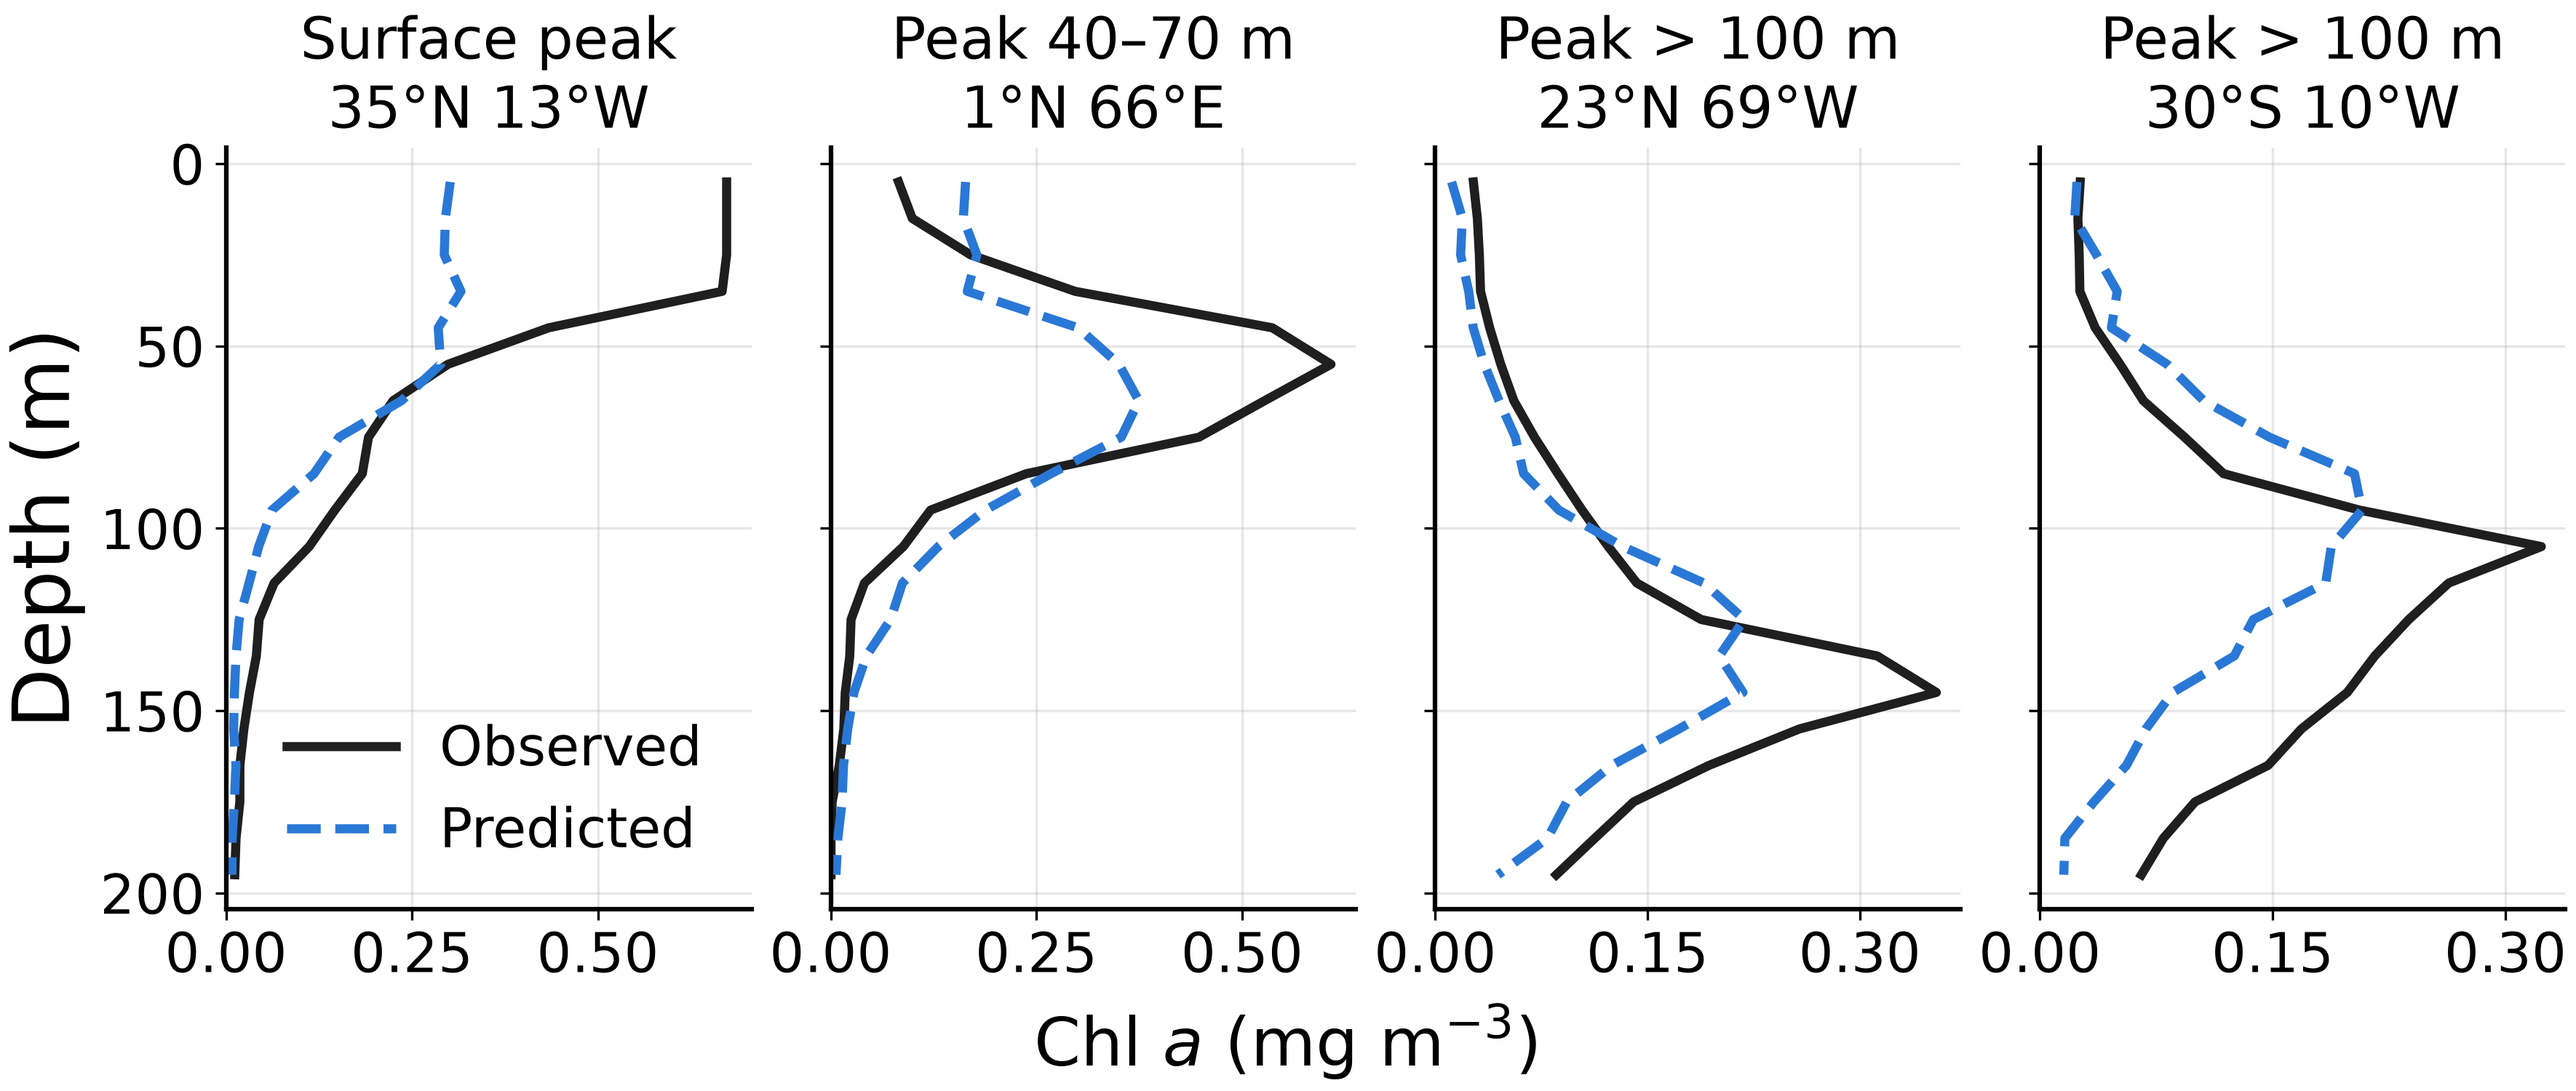
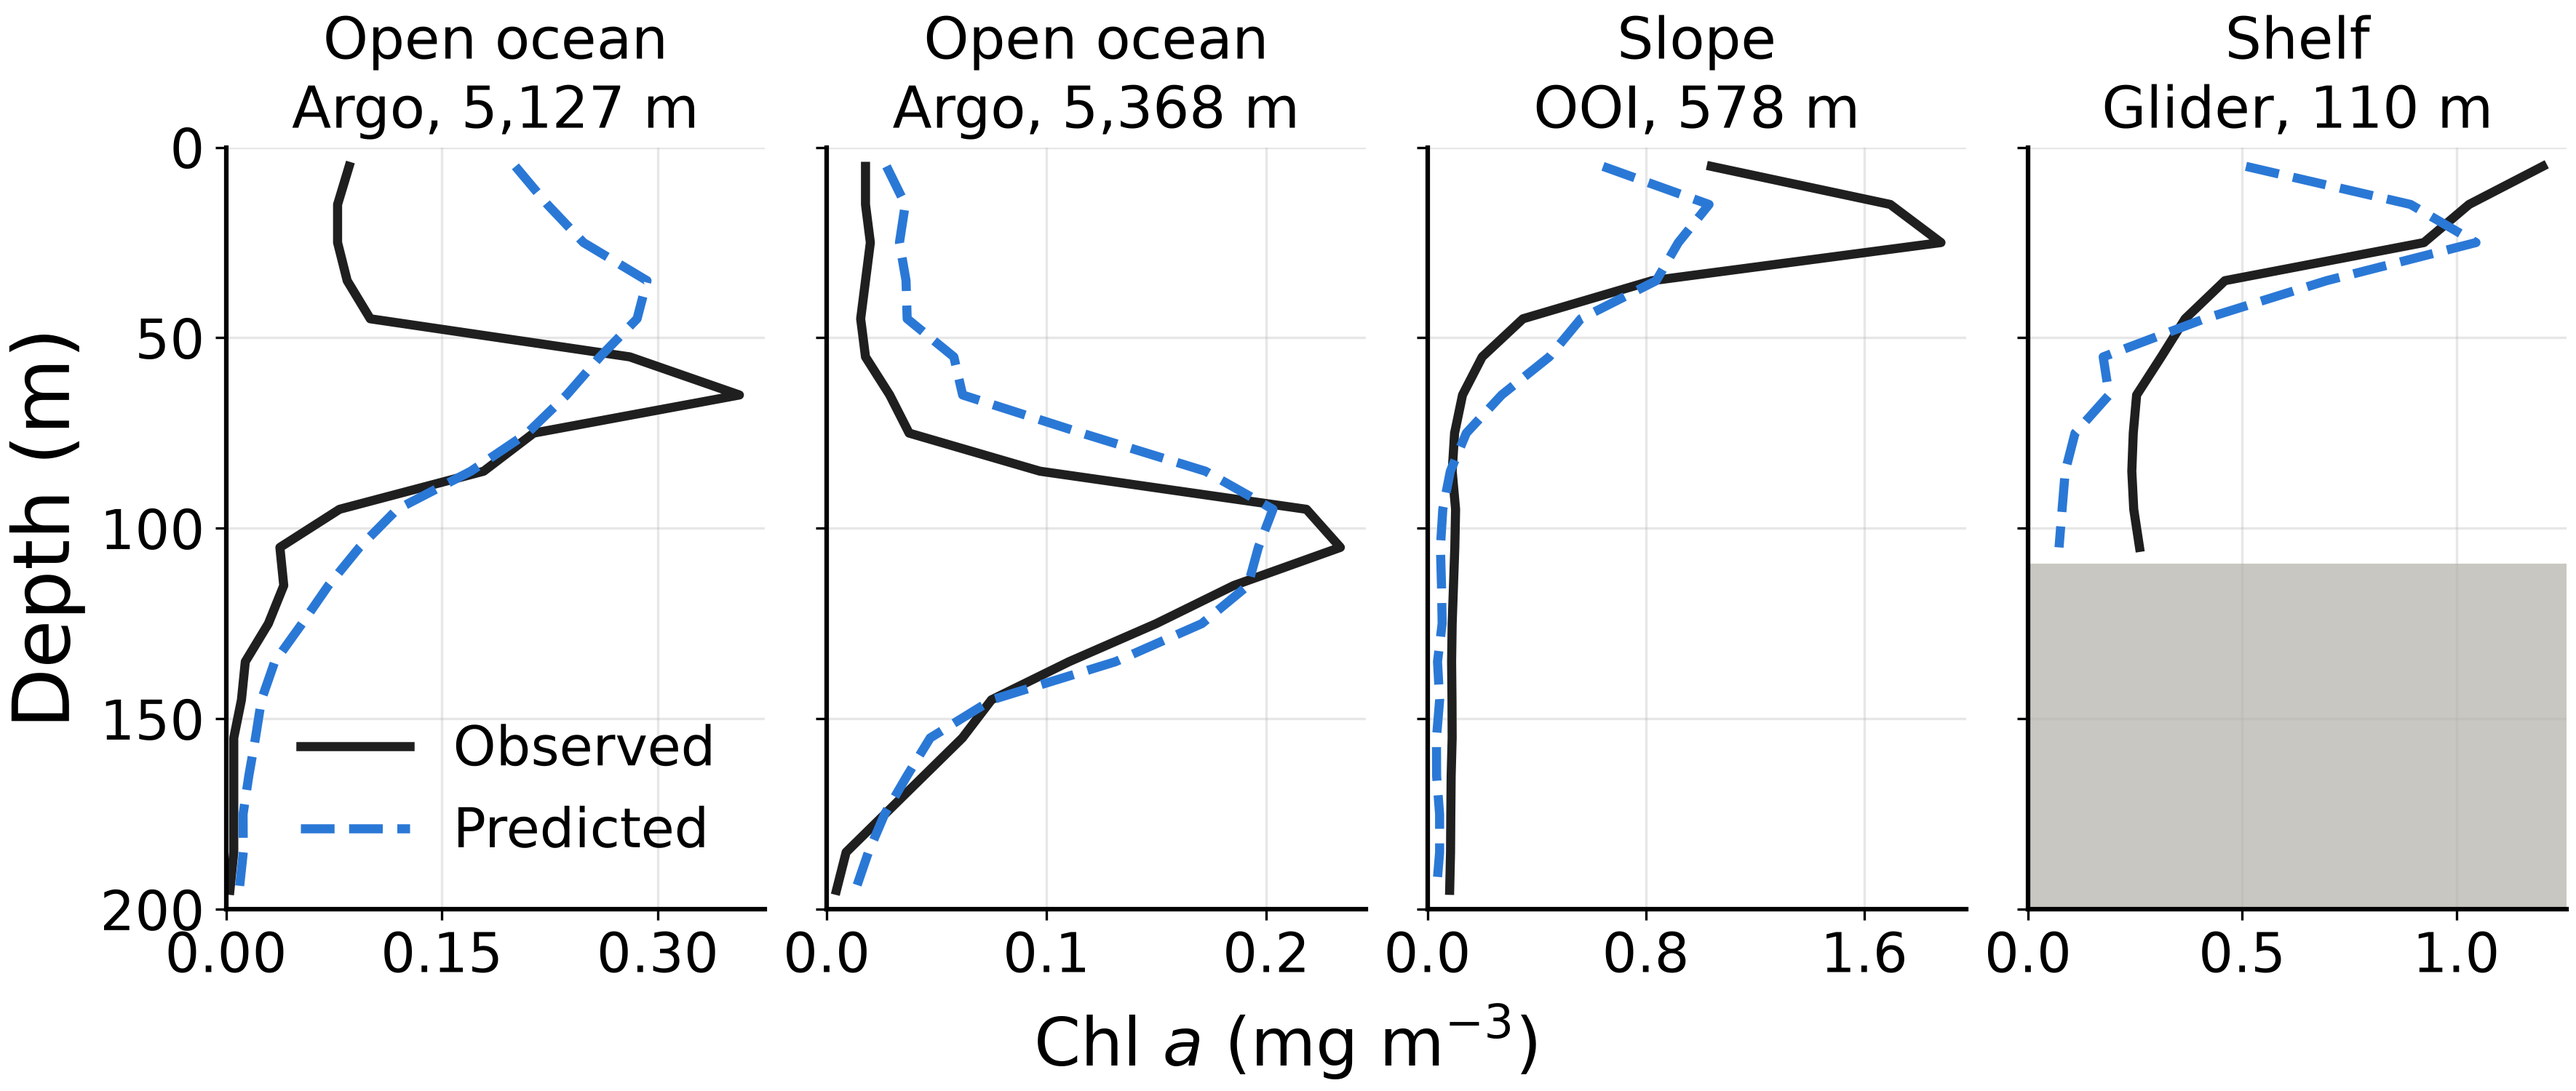
Figure 1: typical profiles in open ocean, slope and shelf (#22)
Eli, 2026-11-24: four panels by water depth instead of four open-ocean
Argo profiles: open ocean, open ocean with a deep maximum, slope, shelf.
v2 model (runs/platform-glider, argo_bias), held-out repeat 0. Each panel
is drawn at random from the middle half (25th-75th percentile of
per-profile RMSE) of its class, so the panels are typical; the picks land
at the 59th-66th percentiles. Caption updated; poster still one page.

diff --git a/poster/scripts/fig_example_profiles.py b/poster/scripts/fig_example_profiles.py
@@ -1,14 +1,25 @@
 """Introduction figure: observed vs predicted CHLA profiles (issue #13).
 
-Shows the known result the poster builds on: Rrs predicts the open-ocean
-profile, including a deep chlorophyll maximum. Predictions are out-of-fold
-from the leakage-free evaluation (#20): Argo+OOI model, space-time block
-split (1° cell x 30 d), repeat 0, so each profile was predicted by a model
-that saw nothing from its cell within that 30-day block.
+Eli, 2026-11-24 (poster v2, #22): four panels by water depth, to show what
+profiles look like and that the model captures their shape: open ocean, open
+ocean with a deep maximum (> 100 m), slope (200-1000 m) and shelf (< 200 m).
+v1 showed four open-ocean Argo profiles.
 
-Profiles are drawn at random (fixed seed) within each panel's category, not
-picked for a good fit. Categories by observed peak depth and water depth
-(ETOPO 2022, poster/analysis/bathymetry). Inputs live in ~/shared-public.
+Predictions are out-of-fold from the v2 model used in block 2 (Argo + OOI +
+glider, every row predicted as Argo plus a per-depth platform offset;
+run_platform.py design "argo_bias", runs/platform-glider), space-time block
+split (1° cell x 30 d), repeat 0: each profile was predicted by a model that
+saw nothing from its cell within that 30-day block.
+
+Selection (Eli: "middle half of class"): for each panel, the eligible
+profiles are ranked by their RMSE of log10 Chl a over the observed bins, and
+one is drawn at random (fixed seed) from the 25th-75th percentile. So the
+panels are typical of their class, neither the best fits nor the worst.
+Eligible: contiguous 10 m bins from the surface; open ocean all 20 bins
+(Argo); slope at least 10 bins and shelf at least 5 (shelf water is shallow),
+any platform. Water-depth class from ETOPO 2022 (poster/analysis/bathymetry);
+the grey band is the seafloor where it is above 200 m. The script prints each
+pick and its percentile. Inputs live in ~/shared-public.
 """
 
 from pathlib import Path
@@ -20,60 +31,70 @@ import pandas as pd
 from poster_style import COLUMN_WIDTH_IN, DPI, apply_style
 
 SHARED = Path.home() / "shared-public" / "chla-z"
-PREDS = SHARED / "split-design" / "runs" / "full" / "preds" / "both__spacetime__1deg_30d__r0.parquet"
-DEPTH = SHARED / "bathymetry" / "water_depth_2026_11_23.parquet"
+PREDS = SHARED / "split-design" / "runs" / "platform-glider" / "preds" / "both__argo_bias__1deg_30d__r0.parquet"
+DEPTH = SHARED / "bathymetry" / "water_depth_2026_11_24.parquet"
 OUT = Path(__file__).resolve().parents[1] / "figures" / "fig_example_profiles.png"
 SEED = 7
+LABEL = {"argo": "Argo", "ooi": "OOI", "glider": "Glider"}
 
-OBS, PRED = "#1f1f1f", "#2a78d6"
+OBS, PRED, SEAFLOOR = "#1f1f1f", "#2a78d6", "#c9c7c1"
 
 
 def load():
     p = pd.read_parquet(PREDS)
     p["top"] = p["bin"].str.split("_").str[1].astype(int)
     p["z"] = p["top"] + 5
-    wd = pd.read_parquet(DEPTH, columns=["profile_id", "depth_class", "lat", "lon"])
+    wd = pd.read_parquet(DEPTH, columns=["profile_id", "depth_class", "water_depth_m"])
     p = p.merge(wd, on="profile_id", how="left")
-    full = p.groupby("profile_id")["top"].nunique()
-    p = p[p["profile_id"].isin(full[full == 20].index)]
+    g = p.groupby("profile_id").agg(
+        first=("top", "min"), last=("top", "max"), n=("top", "nunique"),
+        rmse=("y", lambda s: np.sqrt(((p.loc[s.index, "yhat"] - s) ** 2).mean())))
+    g = g[(g["first"] == 0) & (g["n"] == g["last"] // 10 + 1)]
     peak = p.loc[p.groupby("profile_id")["y"].idxmax(), ["profile_id", "z"]].set_index("profile_id")["z"]
-    p["peak"] = p["profile_id"].map(peak)
-    return p
+    g["peak"] = peak
+    meta = p.drop_duplicates("profile_id").set_index("profile_id")[["platform", "depth_class", "water_depth_m"]]
+    return p, g.join(meta)
 
 
 def main():
     apply_style()
-    p = load()
-    a = p[(p["platform"] == "argo") & (p["depth_class"] == "open ocean")]
-    rng = np.random.default_rng(SEED)
-    cats = [
-        ("Surface peak", a[a["peak"] <= 15]),
-        ("Peak 40–70 m", a[a["peak"].between(40, 70)]),
-        ("Peak > 100 m", a[a["peak"] > 100]),
-        ("Peak > 100 m", a[a["peak"] > 100]),
+    p, g = load()
+    open_ = g[(g["depth_class"] == "open ocean") & (g["platform"] == "argo") & (g["n"] == 20)]
+    panels = [
+        ("Open ocean", open_[open_["peak"] <= 70]),
+        ("Open ocean", open_[open_["peak"] > 100]),
+        ("Slope", g[(g["depth_class"] == "slope") & (g["n"] >= 10)]),
+        ("Shelf", g[(g["depth_class"] == "shelf") & (g["n"] >= 5)]),
     ]
+    rng = np.random.default_rng(SEED)
     picked = []
-    for title, s in cats:
-        ids = [i for i in s["profile_id"].unique() if i not in picked]
-        picked.append(rng.choice(ids))
-    fig, axs = plt.subplots(1, len(cats), figsize=(COLUMN_WIDTH_IN, 5.0), sharey=True)
-    for ax, (title, _), pid in zip(axs, cats, picked):
-        g = p[p["profile_id"] == pid].sort_values("z")
-        ax.plot(10 ** g["y"], g["z"], color=OBS, lw=3, label="Observed")
-        ax.plot(10 ** g["yhat"], g["z"], color=PRED, lw=3, ls="--", label="Predicted")
+    for title, pool in panels:
+        lo, hi = pool["rmse"].quantile([0.25, 0.75])
+        mid = pool[pool["rmse"].between(lo, hi)]
+        pid = rng.choice(sorted(mid.index))
+        pct = 100 * (pool["rmse"] < pool.loc[pid, "rmse"]).mean()
+        print(f"{title:10s} {pid}  RMSE {pool.loc[pid, 'rmse']:.2f}  percentile {pct:.0f} of {len(pool)}")
+        picked.append(pid)
+
+    fig, axs = plt.subplots(1, len(panels), figsize=(COLUMN_WIDTH_IN, 5.0), sharey=True)
+    for ax, (title, _), pid in zip(axs, panels, picked):
+        d = p[p["profile_id"] == pid].sort_values("z")
+        ax.plot(10 ** d["y"], d["z"], color=OBS, lw=3, label="Observed")
+        ax.plot(10 ** d["yhat"], d["z"], color=PRED, lw=3, ls="--", label="Predicted")
+        bottom = g.loc[pid, "water_depth_m"]
+        if bottom < 200:
+            ax.axhspan(bottom, 200, color=SEAFLOOR, zorder=0)
         ax.set_xlim(left=0)
         ax.xaxis.set_major_locator(plt.MaxNLocator(3))
-        lat, lon = g["lat"].iat[0], g["lon"].iat[0]
-        ax.set_title(f"{title}\n{abs(lat):.0f}°{'N' if lat >= 0 else 'S'} {abs(lon):.0f}°{'E' if lon >= 0 else 'W'}",
-                     fontsize=19)
+        ax.set_title(f"{title}\n{LABEL[g.loc[pid, 'platform']]}, {bottom:,.0f} m", fontsize=19)
         ax.grid(alpha=0.3)
         ax.tick_params(labelsize=18)
+    axs[0].set_ylim(0, 200)
     axs[0].invert_yaxis()
     axs[0].set_ylabel("Depth (m)")
     fig.supxlabel("Chl $a$ (mg m$^{-3}$)", fontsize=22)
     axs[0].legend(loc="lower right", frameon=False, fontsize=18)
     fig.savefig(OUT, dpi=DPI)
-    print("profiles:", list(picked))
 
 
 if __name__ == "__main__":
